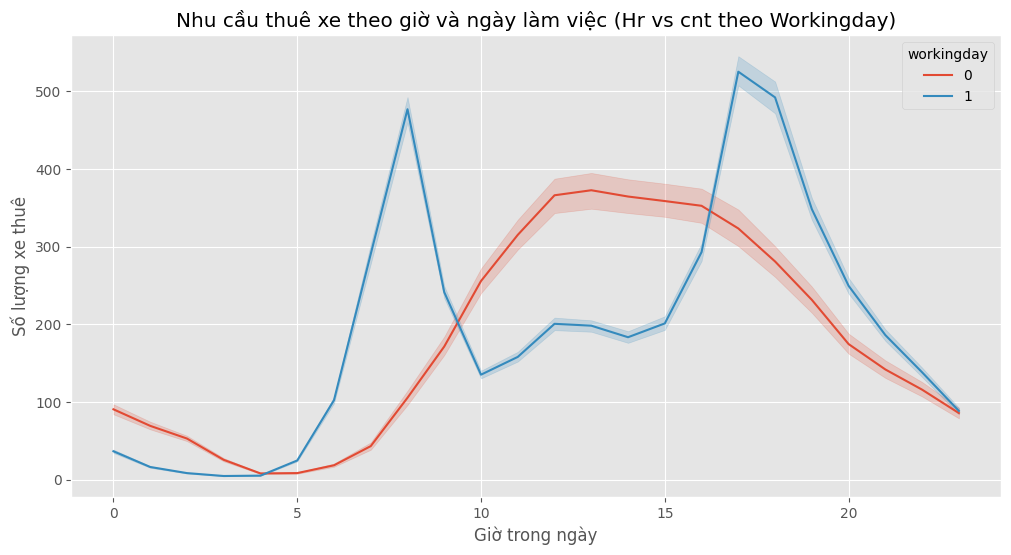
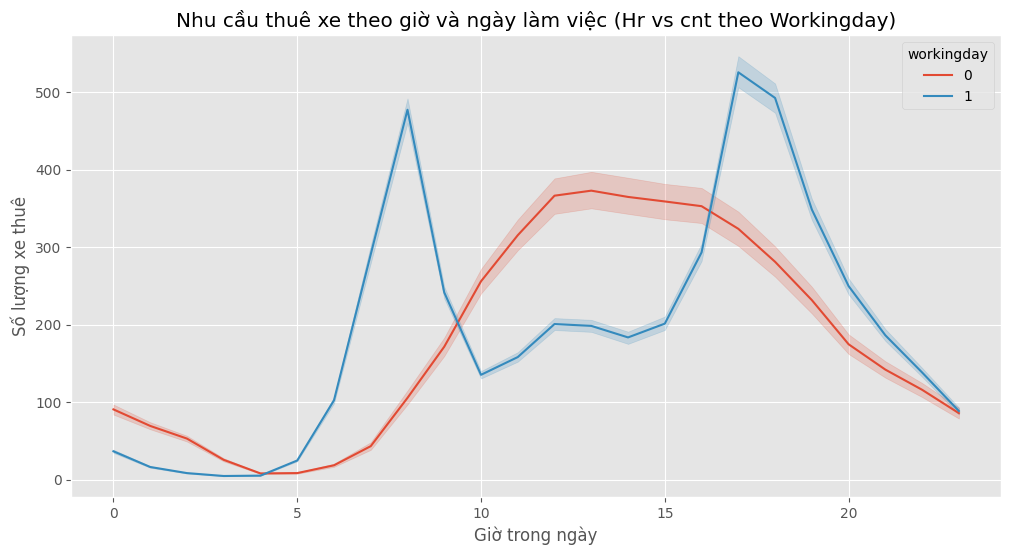
version 7

diff --git a/app/app.py b/app/app.py
@@ -466,16 +466,15 @@ with tab_compare:
 
 with tab_conclusion:
     st.subheader("Kết luận")
-
-    w1, w2, w3, w4 = st.columns(4)
-    for col, step, text in [
-        (w1, "EDA", "Hiểu phân phối, outlier và xu hướng theo thời gian."),
-        (w2, "Feature", "Xác định biến ảnh hưởng mạnh đến nhu cầu."),
-        (w3, "Model", "Huấn luyện và so sánh Linear Regression, Random Forest, XGBoost."),
-        (w4, "Prediction", "Dự đoán số lượt thuê xe từ input thực tế."),
+    c1, c2, c3, c4 = st.columns(4)
+    for col, icon, step, text in [
+        (c1, "📊", "EDA",        "Hiểu phân phối, outlier và xu hướng theo thời gian."),
+        (c2, "📌", "Feature",    "Xác định biến ảnh hưởng mạnh đến nhu cầu."),
+        (c3, "🤖", "Model",      "Huấn luyện và so sánh 3 model ML."),
+        (c4, "🎯", "Prediction", "Dự đoán số lượt thuê xe từ input thực tế."),
     ]:
         with col:
-            st.metric(step, text)
+            st.info(f"**{icon} {step}**\n\n{text}")
 
     st.markdown("#### Insight BI")
     c1, c2, c3 = st.columns(3)